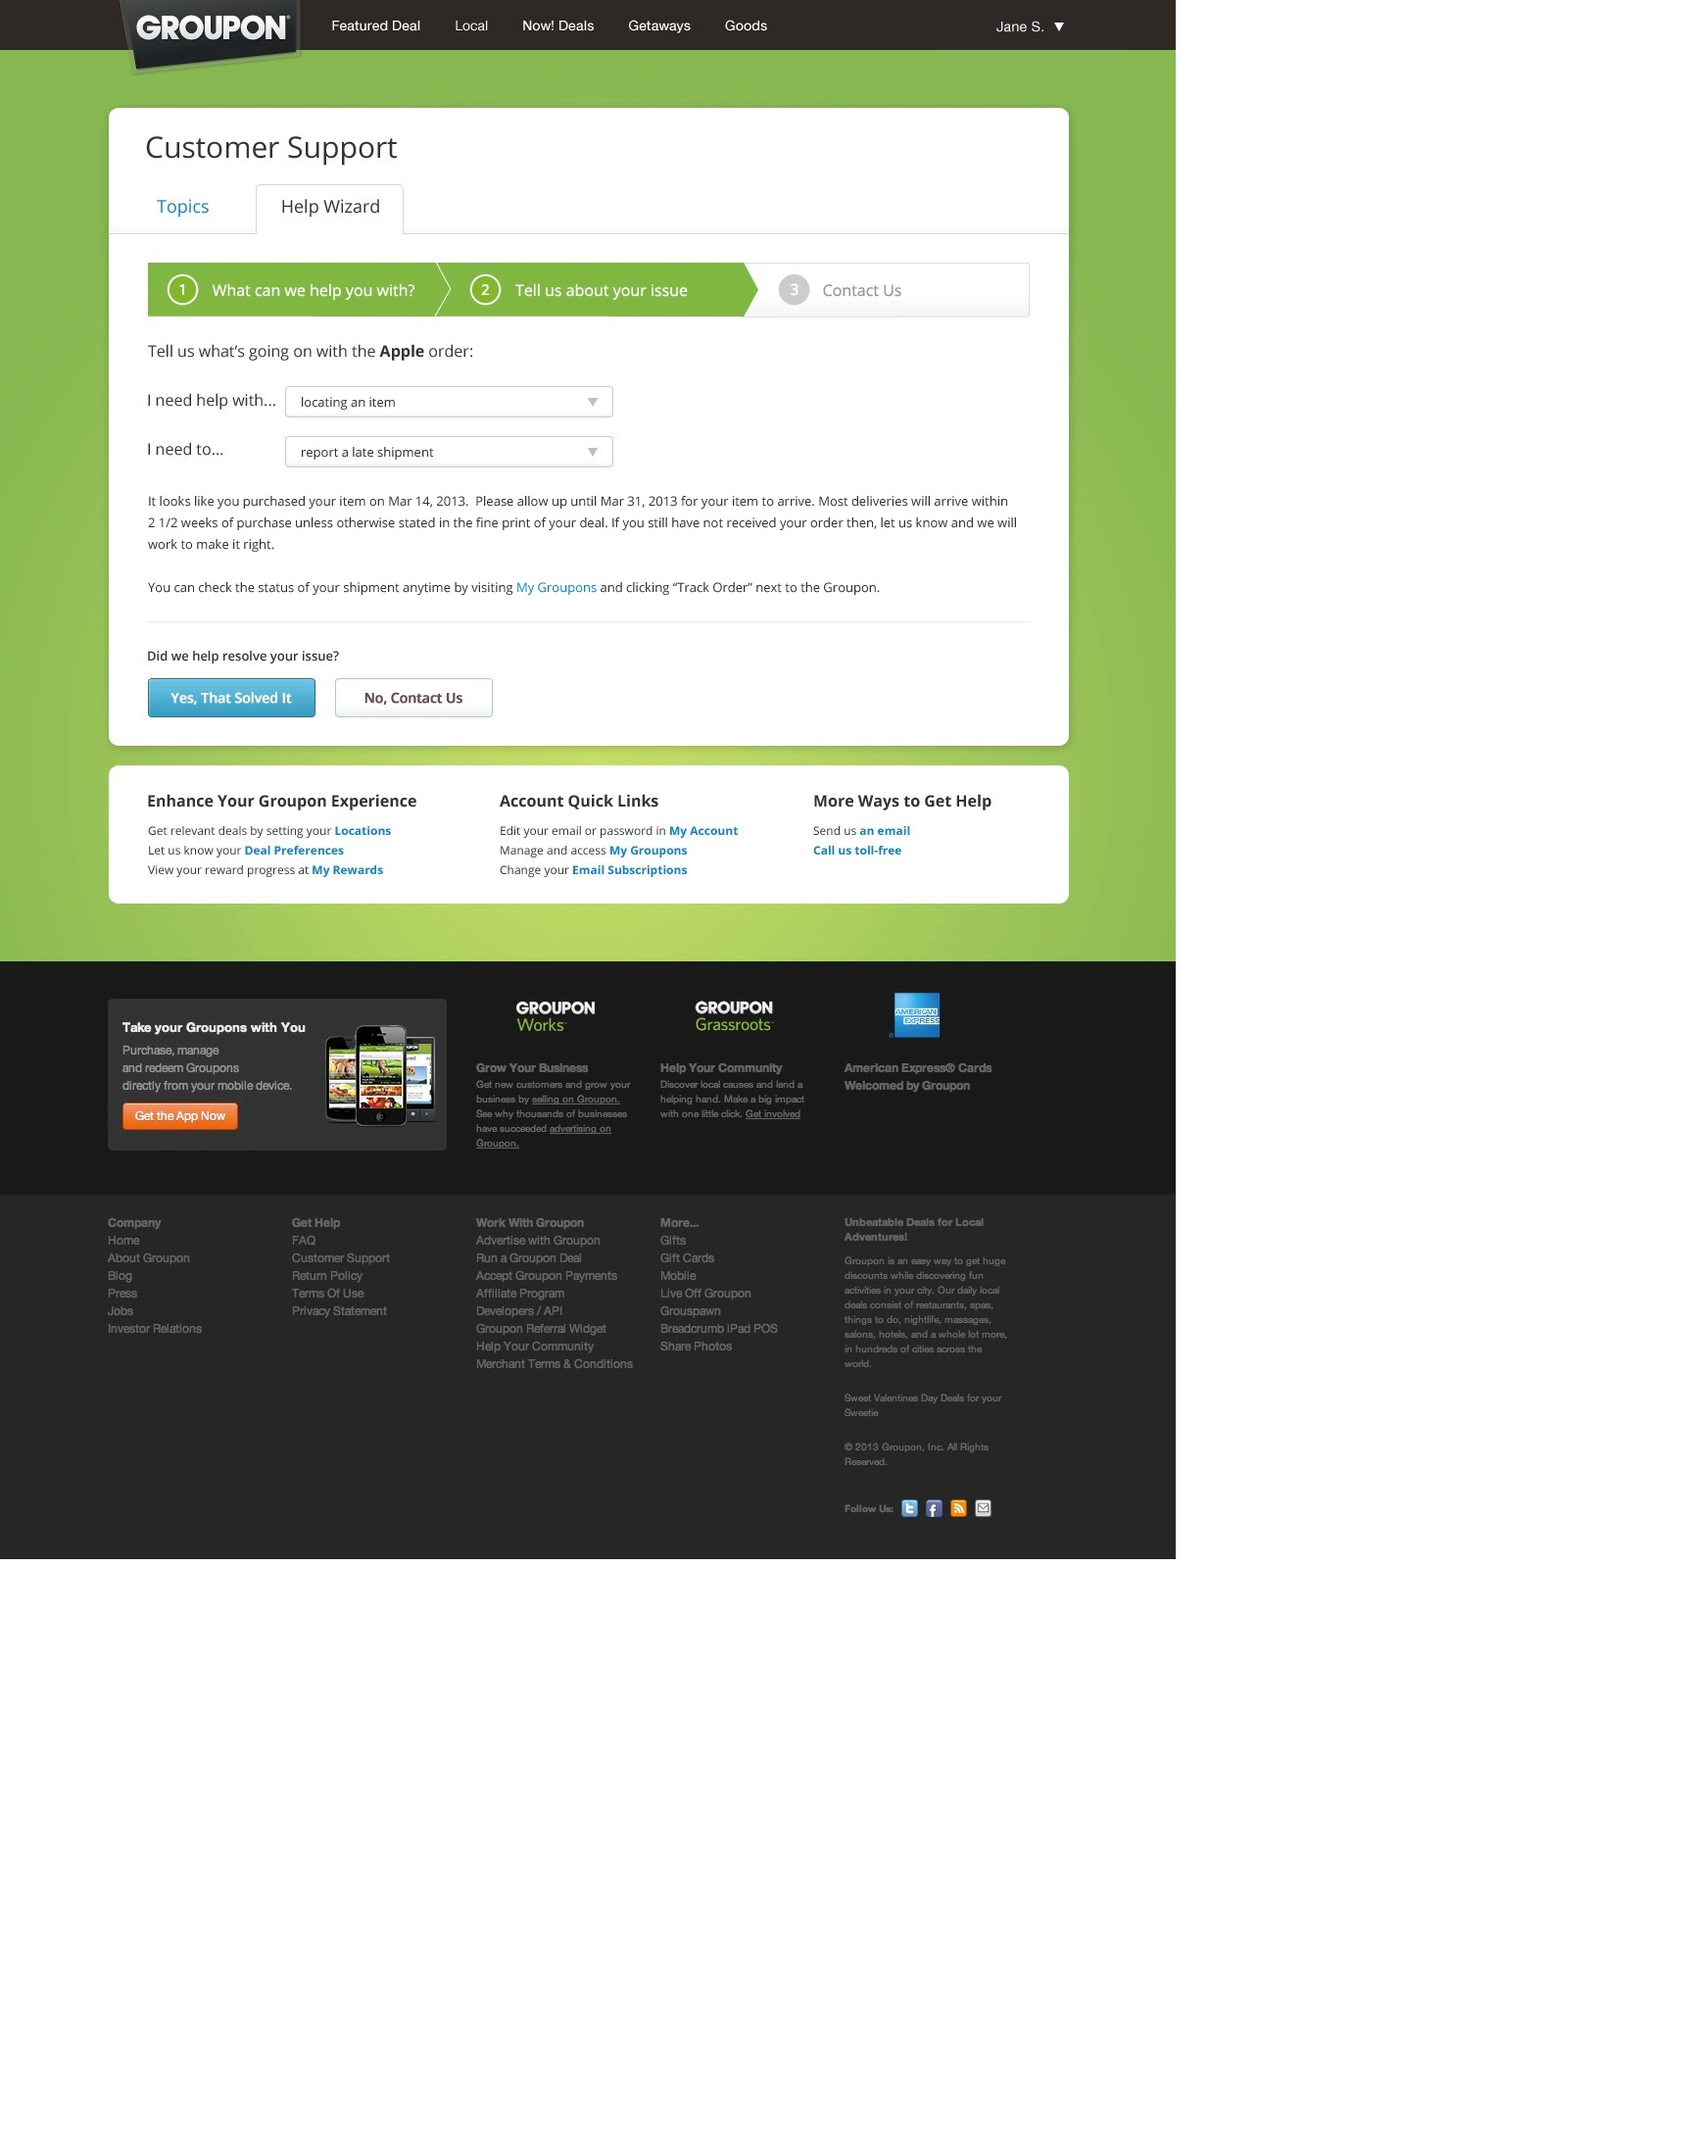
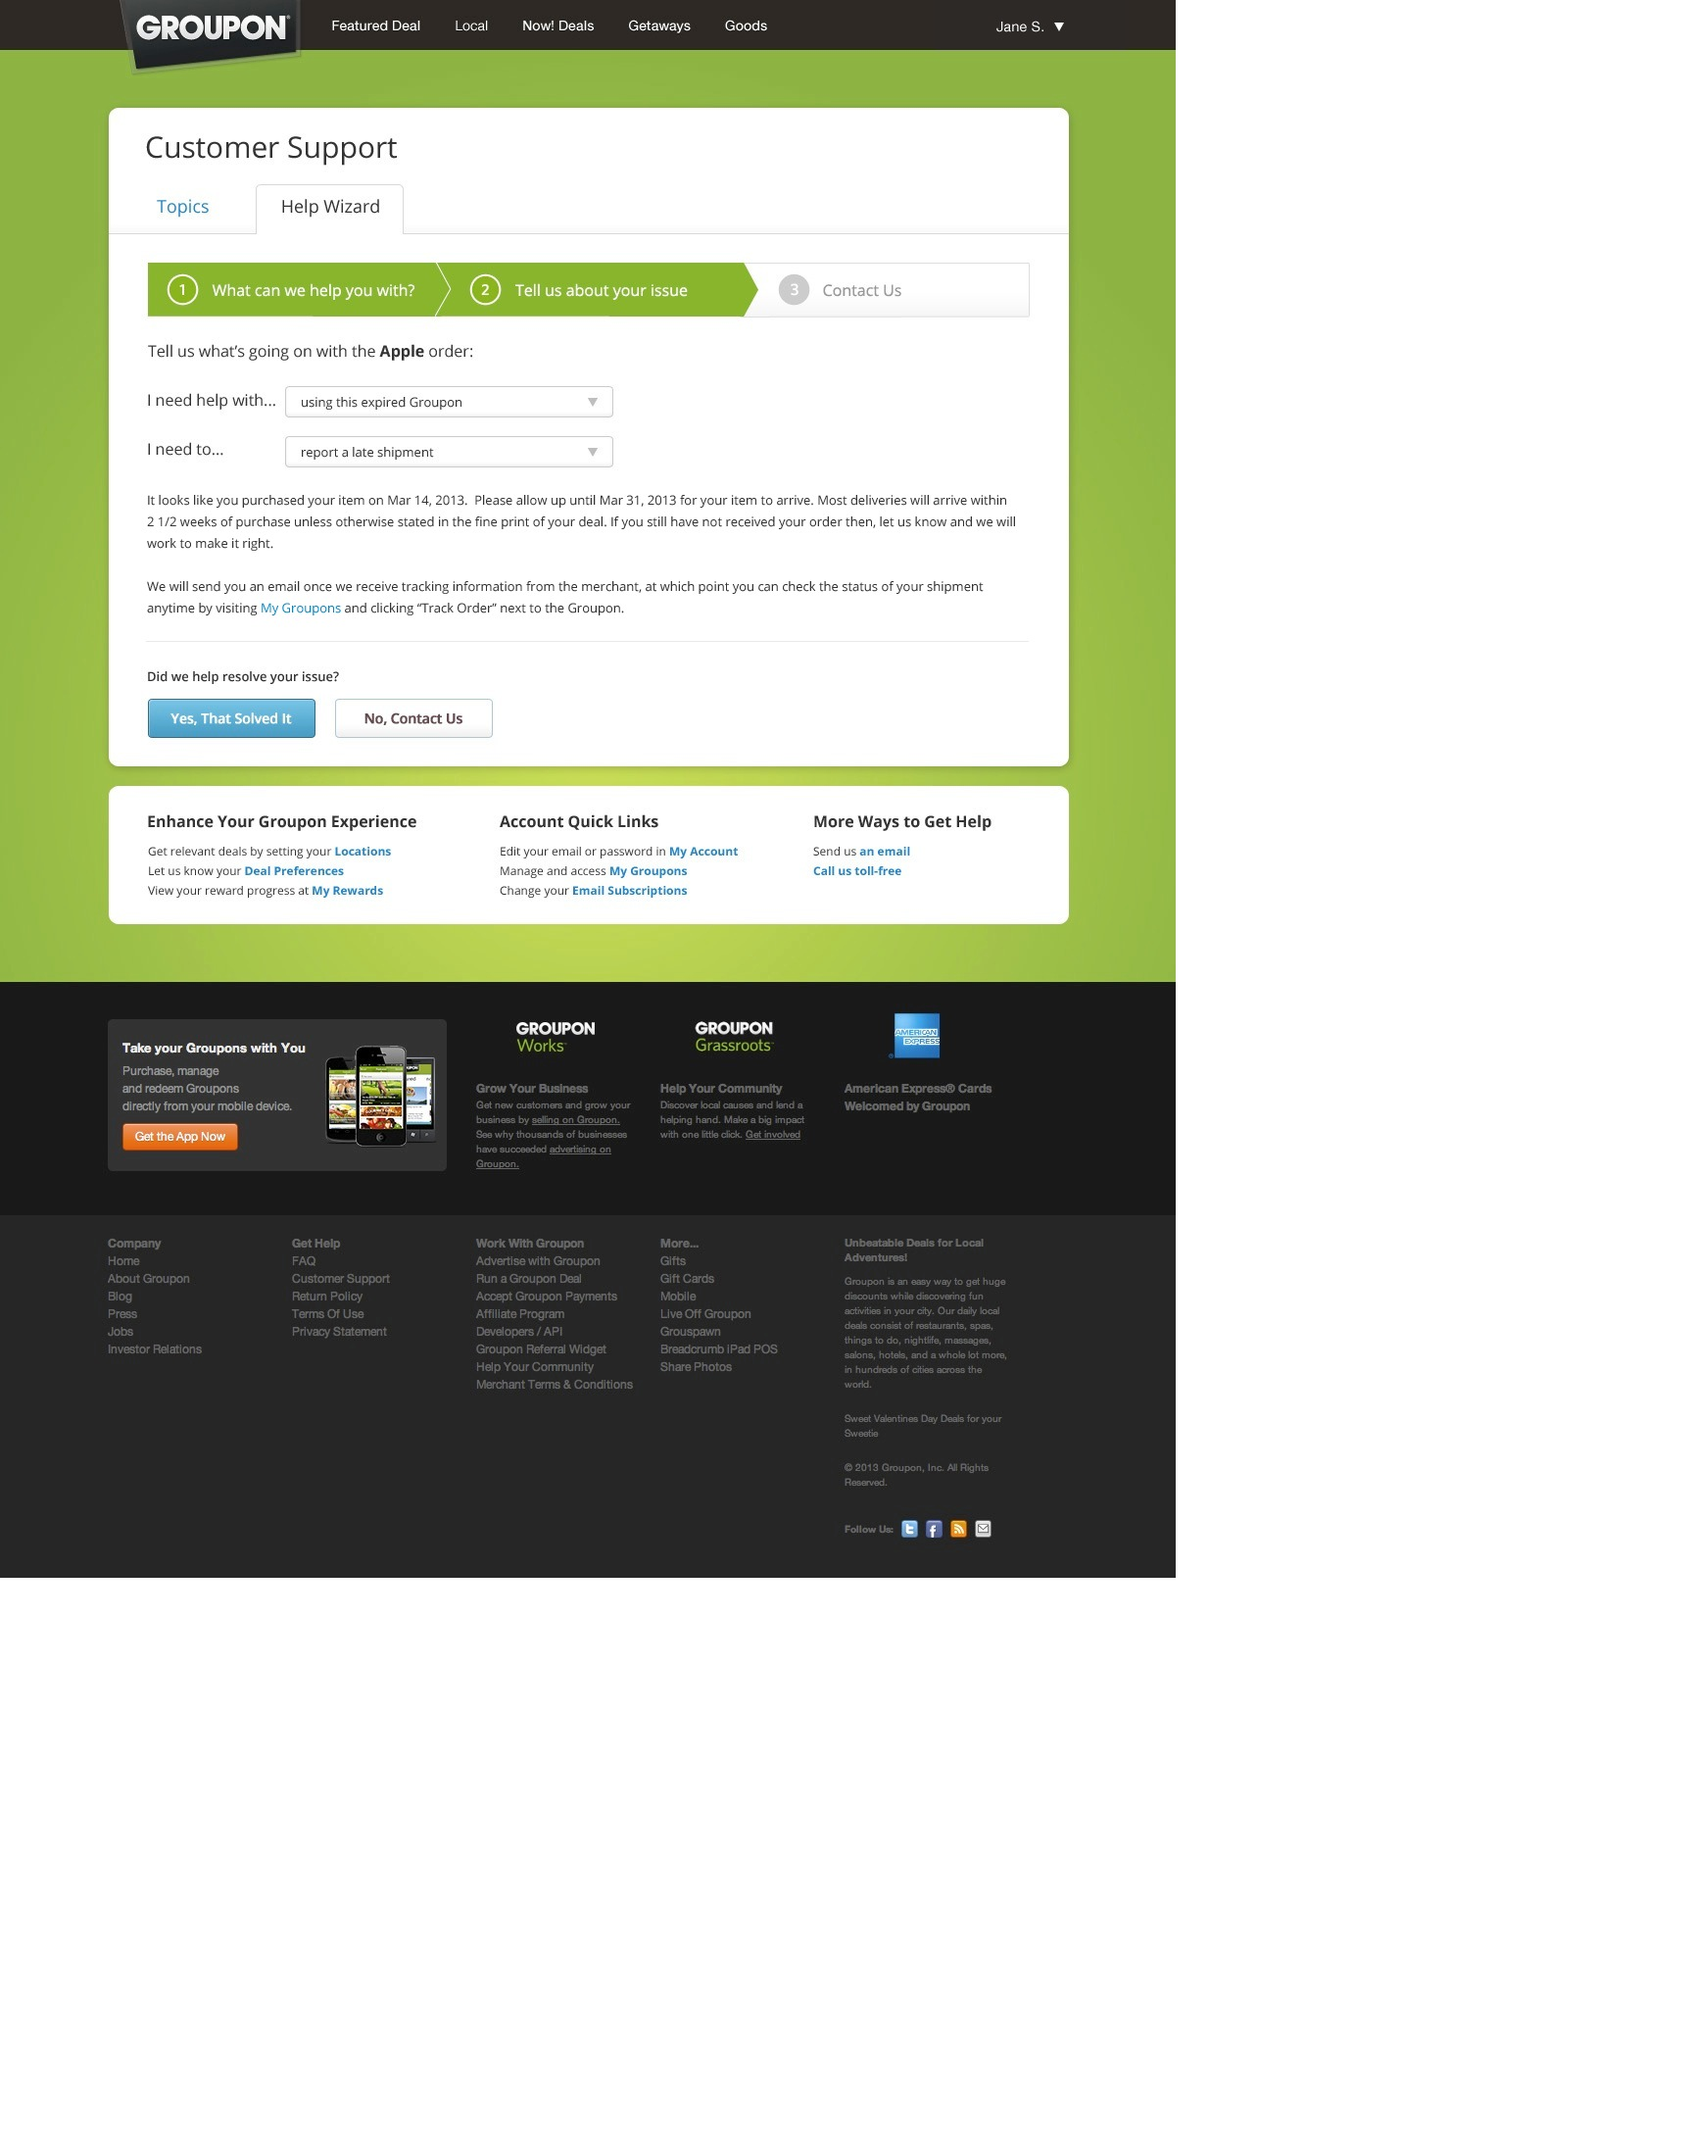
Updated answers for cancel order and late shipment

Changed region(s): [[0.0, 0.2165, 0.6875, 0.6494], [0.0, 0.5566, 0.6875, 0.7422]]

diff --git a/Step 2b - Apple - Late Shipment - Success!!.html b/Step 2b - Apple - Late Shipment - Success!!.html
@@ -1,7 +1,7 @@
 <map name="GraffleExport">
-	<area shape=rect coords="125,7,304,55" href="index.html">
-	<area shape=rect coords="340,681,500,724" href="Step%203%20-%20Apple%20-%20Contact%20Us%20-%20Shipment%20Late.html">
-	<area shape=rect coords="150,681,320,724" href="Step%202c%20-%20Apple%20-%20Return%20Groupon%20-%20Success!!.html">
+	<area shape=rect coords="340,712,500,755" href="Step%203%20-%20Apple%20-%20Contact%20Us%20-%20Shipment%20Late.html">
+	<area shape=rect coords="150,712,320,755" href="Step%202b%20-%20Apple%20-%20Late%20Shipment%20-%20Success!!.html">
+	<area shape=rect coords="125,4,304,52" href="index.html">
 	<area shape=rect coords="135,193,243,231" href="Cat%20Page%20-%20Default.html">
 	<area shape=rect coords="294,1264,402,1283" href="Step1%20-%20Apple%20-%20Tracking.html">
 </map>

diff --git a/Step 2b - Apple - Late Shipment - Answer.html b/Step 2b - Apple - Late Shipment - Answer.html
@@ -1,7 +1,7 @@
 <map name="GraffleExport">
 	<area shape=rect coords="125,4,304,52" href="index.html">
-	<area shape=rect coords="340,691,500,734" href="Step%203%20-%20Apple%20-%20Contact%20Us%20-%20Shipment%20Late.html">
-	<area shape=rect coords="150,691,320,734" href="Step%202b%20-%20Apple%20-%20Late%20Shipment%20-%20Success!!.html">
+	<area shape=rect coords="340,712,500,755" href="Step%203%20-%20Apple%20-%20Contact%20Us%20-%20Shipment%20Late.html">
+	<area shape=rect coords="150,712,320,755" href="Step%202b%20-%20Apple%20-%20Late%20Shipment%20-%20Success!!.html">
 	<area shape=rect coords="135,193,243,231" href="Cat%20Page%20-%20Default.html">
 	<area shape=rect coords="294,1264,402,1283" href="Step1%20-%20Apple%20-%20Tracking.html">
 </map>

diff --git a/Step 2b - Balsan - Cancel Order - Success!!.html b/Step 2b - Balsan - Cancel Order - Success!!.html
@@ -1,8 +1,9 @@
 <map name="GraffleExport">
+	<area shape=rect coords="290,395,620,426" href="Step%202%20-%20Balsan%20DD1%20-%20Expanded.html">
 	<area shape=rect coords="125,4,304,52" href="index.html">
 	<area shape=rect coords="343,576,503,619" href="Step%203%20-%20Balsan%20-%20Contact%20Us.html">
 	<area shape=rect coords="296,1197,404,1216" href="Step1%20-%20Apple%20-%20Tracking.html">
-	<area shape=rect coords="986,450,1051,472" href="Balsan%20Edit%20Order.html">
+	<area shape=rect coords="941,450,1006,472" href="Balsan%20Edit%20Order.html">
 	<area shape=rect coords="135,193,243,231" href="Cat%20Page%20-%20Default.html">
 </map>
 <img border=0 src="Step%202b%20-%20Balsan%20-%20Cancel%20Order%20-%20Success!!.jpg" usemap="#GraffleExport">

diff --git a/Step 2b - Balsan - Cancel Order - Answer.html b/Step 2b - Balsan - Cancel Order - Answer.html
@@ -1,7 +1,8 @@
 <map name="GraffleExport">
+	<area shape=rect coords="290,395,621,426" href="Step%202%20-%20Balsan%20DD1%20-%20Expanded.html">
 	<area shape=rect coords="125,4,304,52" href="index.html">
 	<area shape=rect coords="153,575,323,618" href="Step%202b%20-%20Balsan%20-%20Cancel%20Order%20-%20Success!!.html">
-	<area shape=rect coords="986,450,1051,472" href="Balsan%20Edit%20Order.html">
+	<area shape=rect coords="939,450,1004,472" href="Balsan%20Edit%20Order.html">
 	<area shape=rect coords="343,575,503,618" href="Step%203%20-%20Balsan%20-%20Contact%20Us.html">
 	<area shape=rect coords="135,193,243,231" href="Cat%20Page%20-%20Default.html">
 	<area shape=rect coords="296,1176,404,1195" href="Step1%20-%20Apple%20-%20Tracking.html">

diff --git a/Home Page - Use Case 2.html b/Home Page - Use Case 2.html
@@ -1,6 +1,5 @@
 <map name="GraffleExport">
 	<area shape=rect coords="125,4,304,52" href="index.html">
-	<area shape=rect coords="293,1572,331,1591" href="Cat%20Page%20-%20Default.html">
 	<area shape=rect coords="293,1593,401,1612" href="Step1%20-%20Apple%20-%20No%20Tracking.html">
 	<area shape=rect coords="140,135,410,178" href="index.html">
 	<area shape=rect coords="407,781,550,813" href="Step1%20-%20Apple%20-%20Tracking.html">

diff --git a/Home Page - Use Case 3.html b/Home Page - Use Case 3.html
@@ -1,6 +1,5 @@
 <map name="GraffleExport">
 	<area shape=rect coords="125,4,304,52" href="index.html">
-	<area shape=rect coords="293,1572,331,1591" href="Cat%20Page%20-%20Default.html">
 	<area shape=rect coords="293,1593,401,1612" href="Step1%20-%20Balsan%20-%20Edit%20Order.html">
 	<area shape=rect coords="140,135,410,178" href="index.html">
 	<area shape=rect coords="407,781,550,813" href="Step1%20-%20Apple%20-%20Tracking.html">

diff --git a/Home Page - Use Case 1.html b/Home Page - Use Case 1.html
@@ -1,6 +1,5 @@
 <map name="GraffleExport">
 	<area shape=rect coords="125,4,304,52" href="index.html">
-	<area shape=rect coords="293,1572,331,1591" href="Cat%20Page%20-%20Default.html">
 	<area shape=rect coords="293,1593,401,1612" href="Step1%20-%20Apple%20-%20Tracking.html">
 	<area shape=rect coords="140,135,410,178" href="index.html">
 	<area shape=rect coords="407,781,550,813" href="Step1%20-%20Apple%20-%20Tracking.html">

diff --git a/Home Page - Use Case 4.html b/Home Page - Use Case 4.html
@@ -1,6 +1,5 @@
 <map name="GraffleExport">
 	<area shape=rect coords="125,4,304,52" href="index.html">
-	<area shape=rect coords="293,1572,331,1591" href="Cat%20Page%20-%20Default.html">
 	<area shape=rect coords="293,1593,401,1612" href="Step1%20-%20Apple%20-%20Tracking.html">
 	<area shape=rect coords="140,135,410,178" href="index.html">
 	<area shape=rect coords="407,781,550,813" href="Step1%20-%20Apple%20-%20Tracking.html">
